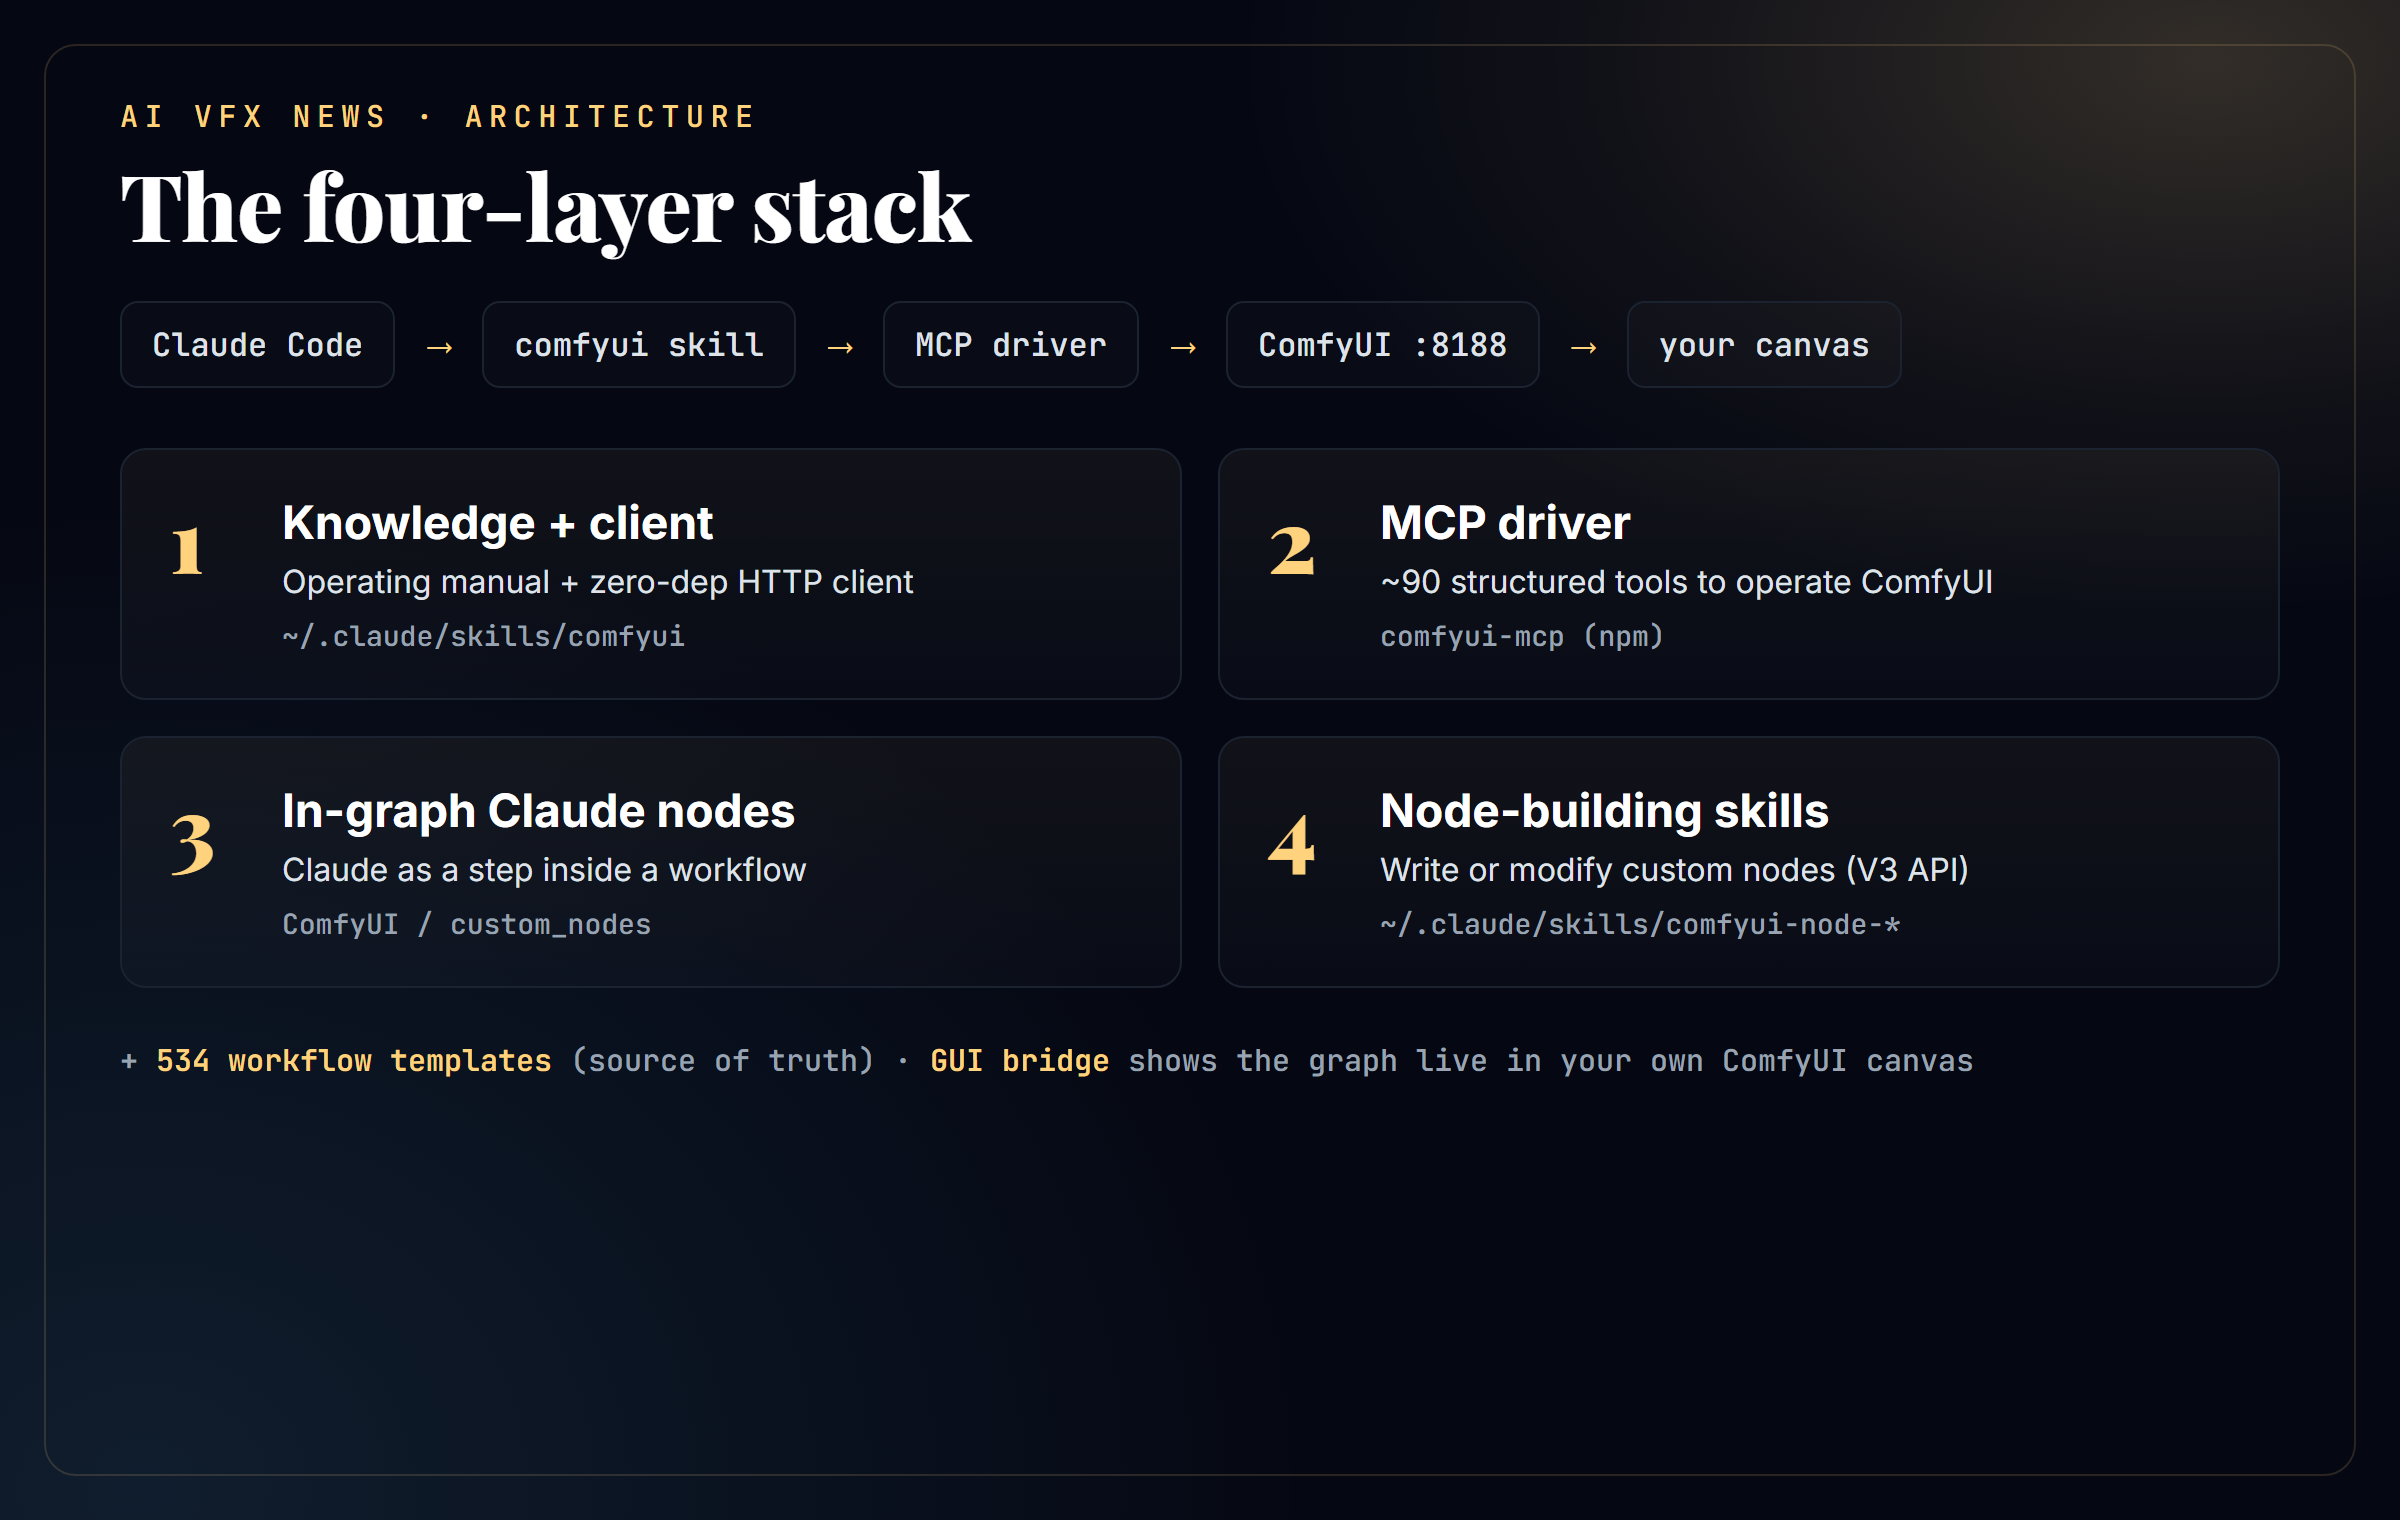
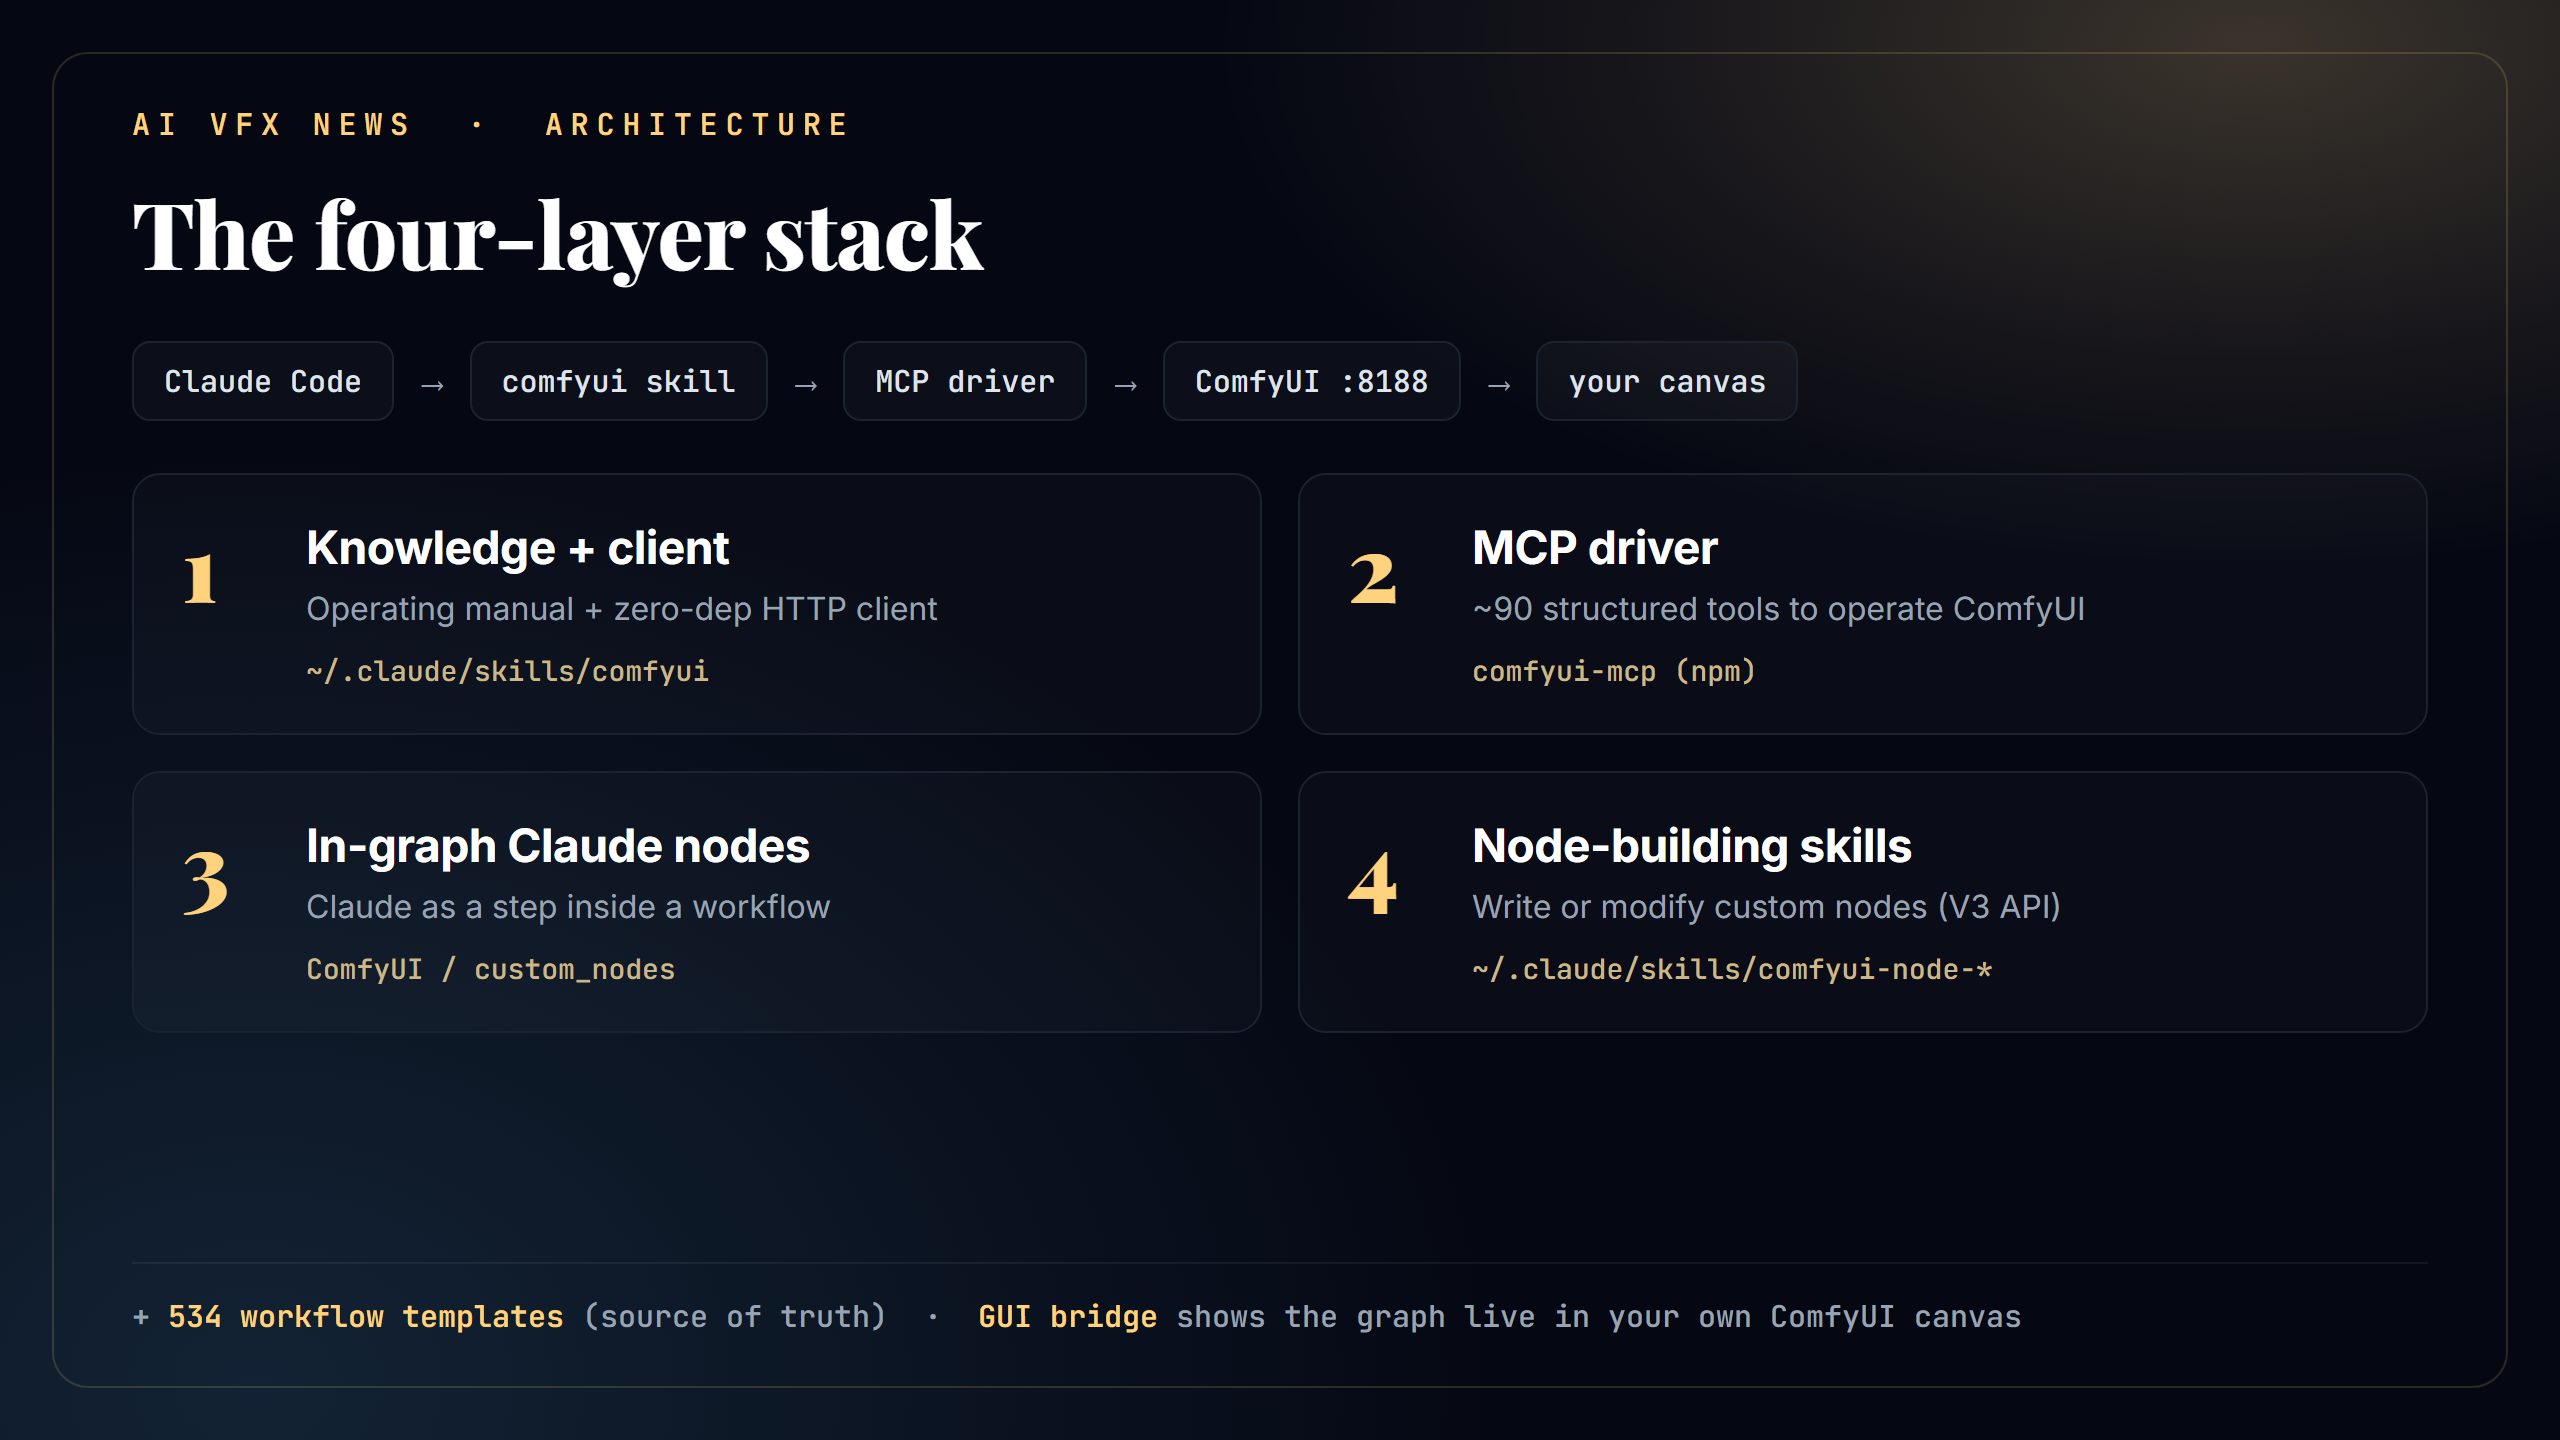
Refresh coverage charts to a uniform 2560x1440 (README alignment)
RESPONSIBLE FOR: re-rendered the three docs/assets coverage charts (models_by_modality, templates_by_category,
architecture) at a uniform 2560x1440 matching the cover, so the README rows stay aligned. models_by_modality now
shows 66 with the corrected modality + local/API split, exact original colours, visible gradient, in-bar segment
numbers and rounded ends. HTML generators stay local (gitignored); only the PNGs are published. CHANGELOG [Unreleased].

diff --git a/CHANGELOG.md b/CHANGELOG.md
@@ -24,6 +24,11 @@ vx.y.z`), which can become a GitHub Release.
   `Comfy-Org/creative-campus`, the official Comfy Education Initiative case-study workflows from award-winning
   artists (e.g. Xindi Zhang's Student Academy Award film) to open and study. Link-and-study only (no license file).
 
+### Changed
+- **Coverage charts refreshed to a uniform 2560x1440.** The four `docs/assets` images now share one resolution
+  (matching the cover) so the README rows stay aligned. `models_by_modality` updated to 66 with the corrected
+  modality and local/API split.
+
 ### Fixed
 - **Utility-tool count 17 -> 18.** The Z-Image Fun-ControlNet-Tile super-res model was added to the enhancement
   section, but the totals in the README and MODEL_INDEX still read 17. Corrected to 18. (The coverage chart image